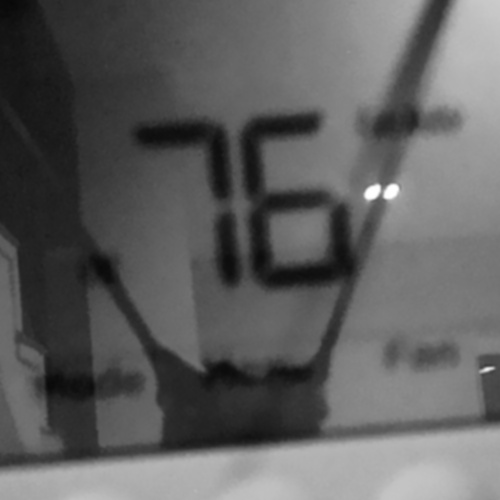
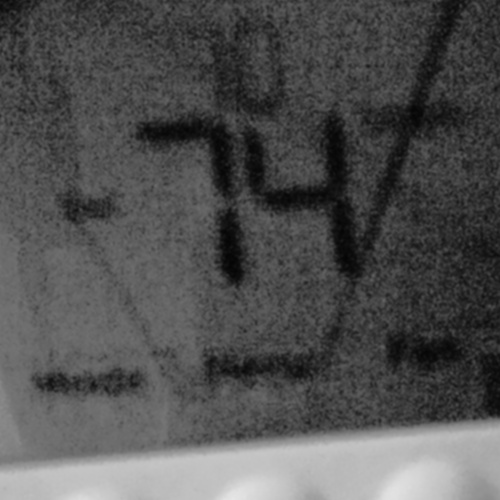
update

diff --git a/main.py b/main.py
@@ -6,6 +6,14 @@ from adafruit_motor import servo
 import threading
 from flask import Flask, render_template, request, redirect, jsonify
 import argparse
+import logging
+
+
+
+# Set up logging
+logging.basicConfig(level=logging.DEBUG, format='%(asctime)s - %(levelname)s - %(message)s')
+
+
 # Create the I2C bus interface.
 i2c = busio.I2C(board.SCL, board.SDA)
 
@@ -188,11 +196,15 @@ def log_info():
 def index():
     global current_mode, manual_override, last_action_time, current_target_temp
 
+    logging.info("Received %s request to /", request.method)
+
     if request.method == "POST":
+        logging.debug("Form data received: %s", request.form)
+
         # Handle manual override request
         if "manual_override" in request.form:
             manual_override = not manual_override
-            print(f"Manual override {'enabled' if manual_override else 'disabled'}")
+            logging.info("Manual override %s", "enabled" if manual_override else "disabled")
             return redirect("/")
 
         # Handle temperature set request
@@ -200,6 +212,7 @@ def index():
             target_temp = int(request.form.get("temperature", 75))
             set_temperature(target_temp)
             current_target_temp = target_temp
+            logging.info("Set temperature to %d°F", target_temp)
             return redirect("/")
 
         # Handle mode set request only if manual override is active
@@ -207,24 +220,28 @@ def index():
             selected_mode = request.form.get("mode")
             if selected_mode == "heat":
                 cycle_mode_to_desired(MODE_HEAT)
+                logging.info("Switched mode to HEAT")
             elif selected_mode == "cool":
                 cycle_mode_to_desired(MODE_COOL)
+                logging.info("Switched mode to COOL")
             else:
                 cycle_mode_to_desired(MODE_OFF)
+                logging.info("Switched mode to OFF")
             return redirect("/")
 
         # Handle light button click
         if "light" in request.form:
             if time.time() - last_action_time < 45:
-                print("Cannot actuate light button within 45 seconds of last action. Light should be on.")
+                logging.warning("Attempted to actuate light button within 45 seconds of last action")
             else:
                 actuate_servo(servo_mode, 0, 180)
-                print("Light button actuated")
+                logging.info("Light button actuated")
                 last_action_time = time.time()
             return redirect("/")
 
     # Calculate the time since the last action
     time_since_last_action = time.time() - last_action_time
+    logging.debug("Time since last action: %.1f seconds", time_since_last_action)
 
     # Read the latest ambient temperature from the file
     read_ambient_temperature()

diff --git a/temperature_recognition.py b/temperature_recognition.py
@@ -41,8 +41,10 @@ def process_image():
     texts = response.text_annotations
     google_text = ''.join([re.sub(r'\D', '', text.description) for text in texts])
 
-    # Grab the first two digits
-    if len(google_text) >= 2:
+    # Keep only the last two digits if four or more are detected
+    if len(google_text) >= 4:
+        detected_number = google_text[-2:]
+    elif len(google_text) >= 2:
         detected_number = google_text[:2]
     else:
         detected_number = ""
